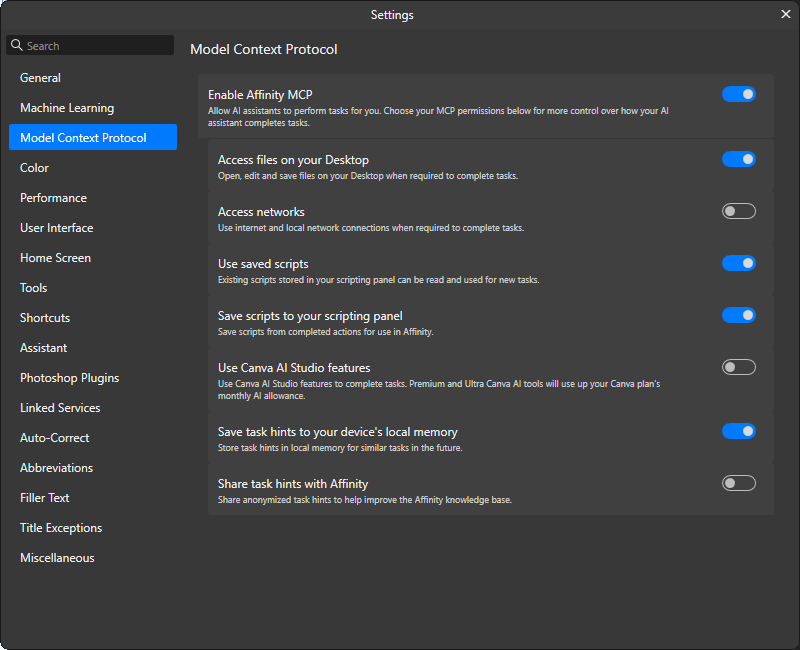
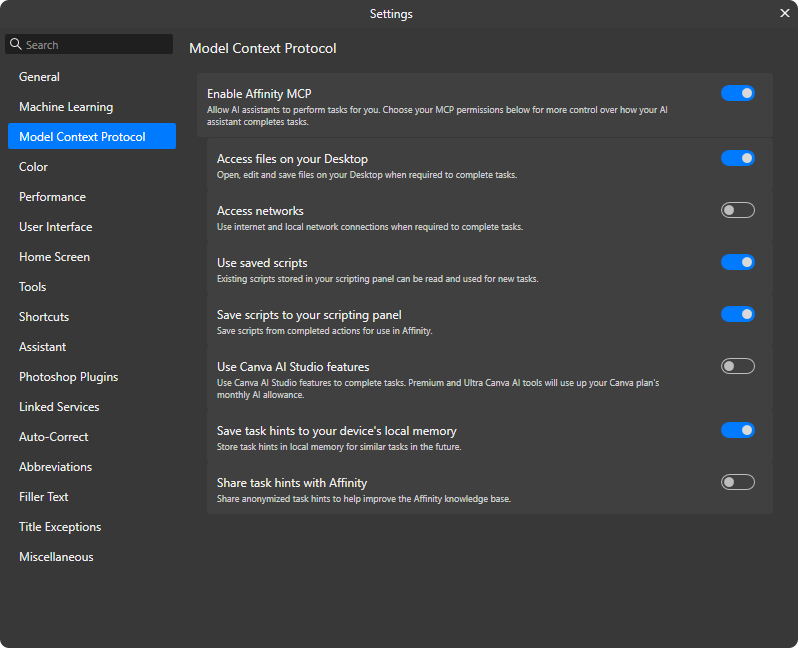
chore: bump development version to 0.5.4-dev.3

diff --git a/docs/README.md b/docs/README.md
@@ -23,7 +23,7 @@
 
 ## 阅读这些记录时
 
-- 插件版本、MCP 协议日期、Affinity 应用构建号是三个不同维度。当前仓库清单为插件 `0.5.4-dev.2`，版本格式和实际交付状态分别核对；已记录的应用样本包括 2026-10-08 的 `3.3.0.4850 Win32` 与 2026-10-19～2026-10-22 的 `3.3.1.4940 MacOS`，后者覆盖注明的批量、查询、撤销、矩形/海报预览、单行文字光学对齐、双框文本流、异步关闭及已有路径画笔用例。它们不等于“官方最新版”。具体来源见[版本身份表](sdk/README.md#version-identity)。
+- 插件版本、MCP 协议日期、Affinity 应用构建号是三个不同维度。当前仓库清单为插件 `0.5.4-dev.3`，版本格式和实际交付状态分别核对；已记录的应用样本包括 2026-10-08 的 `3.3.0.4850 Win32` 与 2026-10-19～2026-10-22 的 `3.3.1.4940 MacOS`，后者覆盖注明的批量、查询、撤销、矩形/海报预览、单行文字光学对齐、双框文本流、异步关闭及已有路径画笔用例。它们不等于“官方最新版”。具体来源见[版本身份表](sdk/README.md#version-identity)。
 - SDK 能力以具体操作、对象和后置状态为单位。函数存在、调用无异常、文本正确、视觉正确与文件保存成功分别需要证据。
 - 操作配方默认跨系统共用，实测平台只标明证据环境；没有其它系统的单独测试，不构成拒绝操作的理由。系统差异需有依据，见[表述约束](maintaining.md#capability-platform-wording)。
 - [光学对齐样本](sdk/3.3.1.4940-macos.md#optical-alignment)区分可通过 SDK 设置的模式、已查未找到的自定义规则入口，以及界面编辑后的实际效果；对象边界对齐不等于中文主体对齐。

diff --git a/docs/sdk/README.md b/docs/sdk/README.md
@@ -9,8 +9,8 @@
 
 | 维度 | 已知值 | 依据与限制 |
 | --- | --- | --- |
-| 仓库插件版本 | `0.5.4-dev.2` | [Codex 清单](../../.codex-plugin/plugin.json)、[共用插件清单](../../.claude-plugin/plugin.json)、[市场条目](../../.claude-plugin/marketplace.json)；这是静态仓库值，实际交付状态按[版本说明](../versioning.md)另行核对 |
-| 代理报告版本 | `0.5.4-dev.2` | [代理源码](../../skills/affinity-mcp/scripts/affinity-mcp-proxy.mjs) 中的 `clientInfo.version` 与 `serverInfo.version`；静态声明，不是运行时握手证据 |
+| 仓库插件版本 | `0.5.4-dev.3` | [Codex 清单](../../.codex-plugin/plugin.json)、[共用插件清单](../../.claude-plugin/plugin.json)、[市场条目](../../.claude-plugin/marketplace.json)；这是静态仓库值，实际交付状态按[版本说明](../versioning.md)另行核对 |
+| 代理报告版本 | `0.5.4-dev.3` | [代理源码](../../skills/affinity-mcp/scripts/affinity-mcp-proxy.mjs) 中的 `clientInfo.version` 与 `serverInfo.version`；静态声明，不是运行时握手证据 |
 | MCP 协议默认值 | `2025-11-25` | [配置](../../.mcp.json)与[代理源码](../../skills/affinity-mcp/scripts/affinity-mcp-proxy.mjs)；不是 SDK 版本或协议全面兼容认证 |
 | 历史能力基线 | `3.2.3.4646` | [3.2.3.4646 记录](3.2.3.4646.md)所列固定提交来源，截至 2026-09-11；历史转录，没有独立复验结果 |
 | 样本构建 | `Affinity 3.3.0.4850 Win32 (Sep 11 2026)` | [脱敏证据摘要](evidence/2026-10-08.md) A-01，观察于 2026-10-08；括号内是应用自报字符串，不作为发布日期 |

diff --git a/CHANGELOG.md b/CHANGELOG.md
@@ -2,6 +2,23 @@
 
 English | [简体中文](CHANGELOG.zh-cn.md)
 
+## 2026-10-22
+
+### 0.5.4-dev.3
+
+#### Changed
+
+- Reject front-frame unlinking because a tested call cleared the whole Story; unlinking a middle frame leaves the full text upstream and empties the downstream chain.
+
+#### Added
+
+- Clone a PathBrush from an existing brushed curve, adjust its width, and reuse it on another curve; preparing a preset in the UI remains a separate step.
+- Add bounded recipes for three-frame flows across spreads, known-height frame reflow, multi-page/selected-page PDF and transparent text export, and asynchronous native save/overwrite/reopen.
+
+#### Fixed
+
+- Require explicit checks for mixed-format replacements, complete Bleed and packaged originals: successful calls can lose formatting, crop the output or render degraded image regions after reopening.
+
 ## 2026-10-21
 
 ### 0.5.4-dev.2

diff --git a/CHANGELOG.zh-cn.md b/CHANGELOG.zh-cn.md
@@ -2,6 +2,23 @@
 
 [English](CHANGELOG.md) | 简体中文
 
+## 2026-10-22
+
+### 0.5.4-dev.3
+
+#### 变更
+
+- 拒绝对链首直接取消链接，实测该调用会清空整篇 Story；中间框取消链接后，全文留在上游，后续链变空。
+
+#### 新增
+
+- 可从已有真实笔触克隆 PathBrush、调整宽度并用于另一曲线；通过界面准备预设仍是独立步骤。
+- 新增三框跨 spread 文本流、已知高度的框架重排、多页/选页 PDF 与透明文字导出，以及异步原生保存、覆盖与重开配方。
+
+#### 修复
+
+- 要求单独核验混排替换、完整 Bleed 与包内原图：调用成功仍可能丢失格式、裁掉外围内容，或在重开后出现图片区域失真。
+
 ## 2026-10-21
 
 ### 0.5.4-dev.2

diff --git a/docs/architecture.md b/docs/architecture.md
@@ -1,6 +1,6 @@
 # Affinity MCP 架构说明
 
-实现依据为仓库中的[代理源码](../skills/affinity-mcp/scripts/affinity-mcp-proxy.mjs)和清单，插件标识 `0.5.4-dev.2`；工作树改动不代表已发布新版本。SDK操作的构建差异单独记录在[SDK索引](sdk/README.md)。
+实现依据为仓库中的[代理源码](../skills/affinity-mcp/scripts/affinity-mcp-proxy.mjs)和清单，插件标识 `0.5.4-dev.3`；工作树改动不代表已发布新版本。SDK操作的构建差异单独记录在[SDK索引](sdk/README.md)。
 
 ## 目标和边界
 
